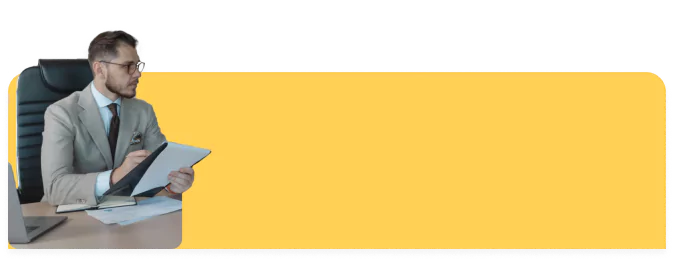
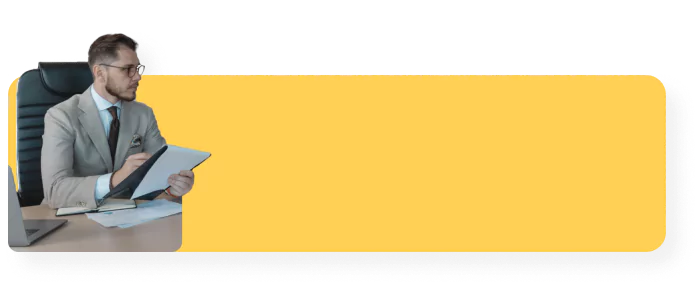
update

Changed region(s): [[0.0, 0.0916, 0.997, 0.9771]]

diff --git a/style.css b/style.css
@@ -209,6 +209,7 @@ body {
   position: relative;
   overflow: hidden;
   z-index: 1;
+  box-shadow: #e2e8f0 0px 10px;
 }
 
 .desc {
@@ -982,6 +983,7 @@ body {
   position: relative;
   z-index: 1;
   overflow: hidden;
+  box-shadow: #e2e8f0 0px 10px;
 }
 .choose .header-choose {
   display: flex;
@@ -2207,6 +2209,7 @@ footer .copyright span {
   overflow: hidden;
   background-color: #edf2f7;
   z-index: 1;
+  box-shadow: #edf2f7 0px 10px;
 }
 
 #section3-4 .judul {
@@ -2235,34 +2238,16 @@ footer .copyright span {
 #section3-4 .slider {
   overflow: hidden;
   position: relative;
+  display: flex;
   width: 100vw;
-}
-
-#section3-4 .slider .slide img {
-  width: 100vw;
-  height: 300px;
 }
 
 #section3-4 .slider .slide-track {
   margin-top: -100px;
-  -webkit-animation: marquee3 12s linear infinite;
-  animation: marquee3 12s linear infinite;
+  -webkit-animation: marquee3 36s linear infinite;
+  animation: marquee3 36s linear infinite;
   display: flex;
-  width: calc(300px * 12);
-}
-
-#section3-4 .slider .slide-track1 {
-  margin-left: -96px;
-  margin-top: 100px;
-  -webkit-animation: marquee3 12s linear infinite;
-  animation: marquee3 12s linear infinite;
-  display: flex;
-  width: calc(300px * 12);
-}
-
-#section3-4 .slider .slide {
-  height: 300px;
-  width: 100vw;
+  /* width: calc(300px * 12); */
 }
 
 @keyframes marquee3 {
@@ -2277,7 +2262,7 @@ footer .copyright span {
 #section3-4 .rectangle {
   position: absolute;
   width: 100vw;
-  height: 100px;
+  height: 20%;
   bottom: 0px;
   background: linear-gradient(180deg, rgba(237, 242, 247, 0) 0%, #e2e8f0 100%);
 }
@@ -2310,6 +2295,7 @@ footer .copyright span {
   height: 800px;
   overflow: hidden;
   z-index: 1;
+  box-shadow: #e2e8f0 0px 10px;
 }
 
 #section4 .judul {
@@ -2508,8 +2494,8 @@ footer .copyright span {
   #section3-4 .slider {
     margin-top: 40px;
   }
-  #section3-4 .slide img {
-    width: 510px !important;
+  #section3-4 .slider img {
+    width: 700px;
   }
   #section3-4 .judul {
     font-size: 32px;
@@ -2534,8 +2520,8 @@ footer .copyright span {
   #section3-4 .slider {
     margin-top: 20px;
   }
-  #section3-4 .slide img {
-    width: 600px !important;
+  #section3-4 .slider img {
+    width: 800px;
   }
   #section4 .judul {
     margin: 0 20px 0 20px;
@@ -2549,9 +2535,8 @@ footer .copyright span {
   #section3-4 .slider {
     margin-top: 20px;
   }
-  #section3-4 .slide img {
-    width: 100vw !important;
-    height: 300px;
+  #section3-4 .slider img {
+    width: 1000px;
   }
   .anim2 {
     margin: 0 70px 0 70px;
@@ -2570,9 +2555,6 @@ footer .copyright span {
   #section3-4 {
     height: 620px;
   }
-  #section3-4 .slide img {
-    height: 400px !important;
-  }
   .anim2 {
     margin: 12px 0 12px 0;
   }
@@ -2586,11 +2568,10 @@ footer .copyright span {
 
 @media (min-width: 992px) {
   #section3-4 {
-    height: 670px;
+    height: 700px;
   }
-  #section3-4 .slide img {
-    width: 1000px !important;
-    height: 400px !important;
+  #section3-4 .slider img {
+    width: 1200px;
   }
   #section3-4 .judul {
     font-size: 38px;
@@ -2613,11 +2594,7 @@ footer .copyright span {
 
 @media (min-width: 1200px) {
   #section3-4 {
-    height: 800px;
-  }
-  #section3-4 .slide img {
-    width: 1100px !important;
-    height: 500px !important;
+    height: 720px;
   }
   #section3-4 .judul {
     font-size: 48px;
@@ -2667,14 +2644,13 @@ footer .copyright span {
 
 @media (min-width: 1400px) {
   #section3-4 {
-    height: 850px;
+    height: 800px;
+  }
+  #section3-4 .slider img {
+    width: 1400px;
   }
   #section3-4 .judul {
     font-size: 56px;
-  }
-  #section3-4 .slider .slide img {
-    width: 1000px !important;
-    height: 500px !important;
   }
   @keyframes marquee3 {
     0% {

diff --git a/index.html b/index.html
@@ -124,32 +124,11 @@
           </div>
           <div class="slider pb-5 pt-5" id="slider1">
             <div class="slide-track">
-              <div class="slide">
-                <img src="img/logo-client-eva-final (1)1.webp" width="100vw" alt="">
-              </div>
-              <div class="slide">
-                <img src="img/logo-client-eva-final (1)1.webp" width="100vw" alt="">
-              </div>
-              <div class="slide">
-                <img src="img/logo-client-eva-final (1)1.webp" width="100vw" alt="">
-              </div>
-              <div class="slide">
-                <img src="img/logo-client-eva-final (1)1.webp" width="100vw" alt="">
-              </div>
-              <div class="slide">
-                <img src="img/logo-client-eva-final (1)1.webp" width="100vw" alt="">
-              </div>
-              <div class="slide">
-                <img src="img/logo-client-eva-final (1)1.webp" width="100vw" alt="">
-              </div>
-            </div>
-            <div class="slide-track1">
-              <div class="slide">
-                <img src="img/logo-client-eva-final (1)1.webp" width="100vw" alt="">
-              </div>
-              <div class="slide">
-                <img src="img/logo-client-eva-final (1)1.webp" width="100vw" alt="">
-              </div>
+              <img src="img/logo-client-eva-final (1)1.webp" alt="">
+              <img src="img/logo-client-eva-final (1)1.webp" alt="">
+              <img src="img/logo-client-eva-final (1)1.webp" alt="">
+              <img src="img/logo-client-eva-final (1)1.webp" alt="">
+              <img src="img/logo-client-eva-final (1)1.webp" alt="">
             </div>
           </div>
           <div class="rectangle"></div>
